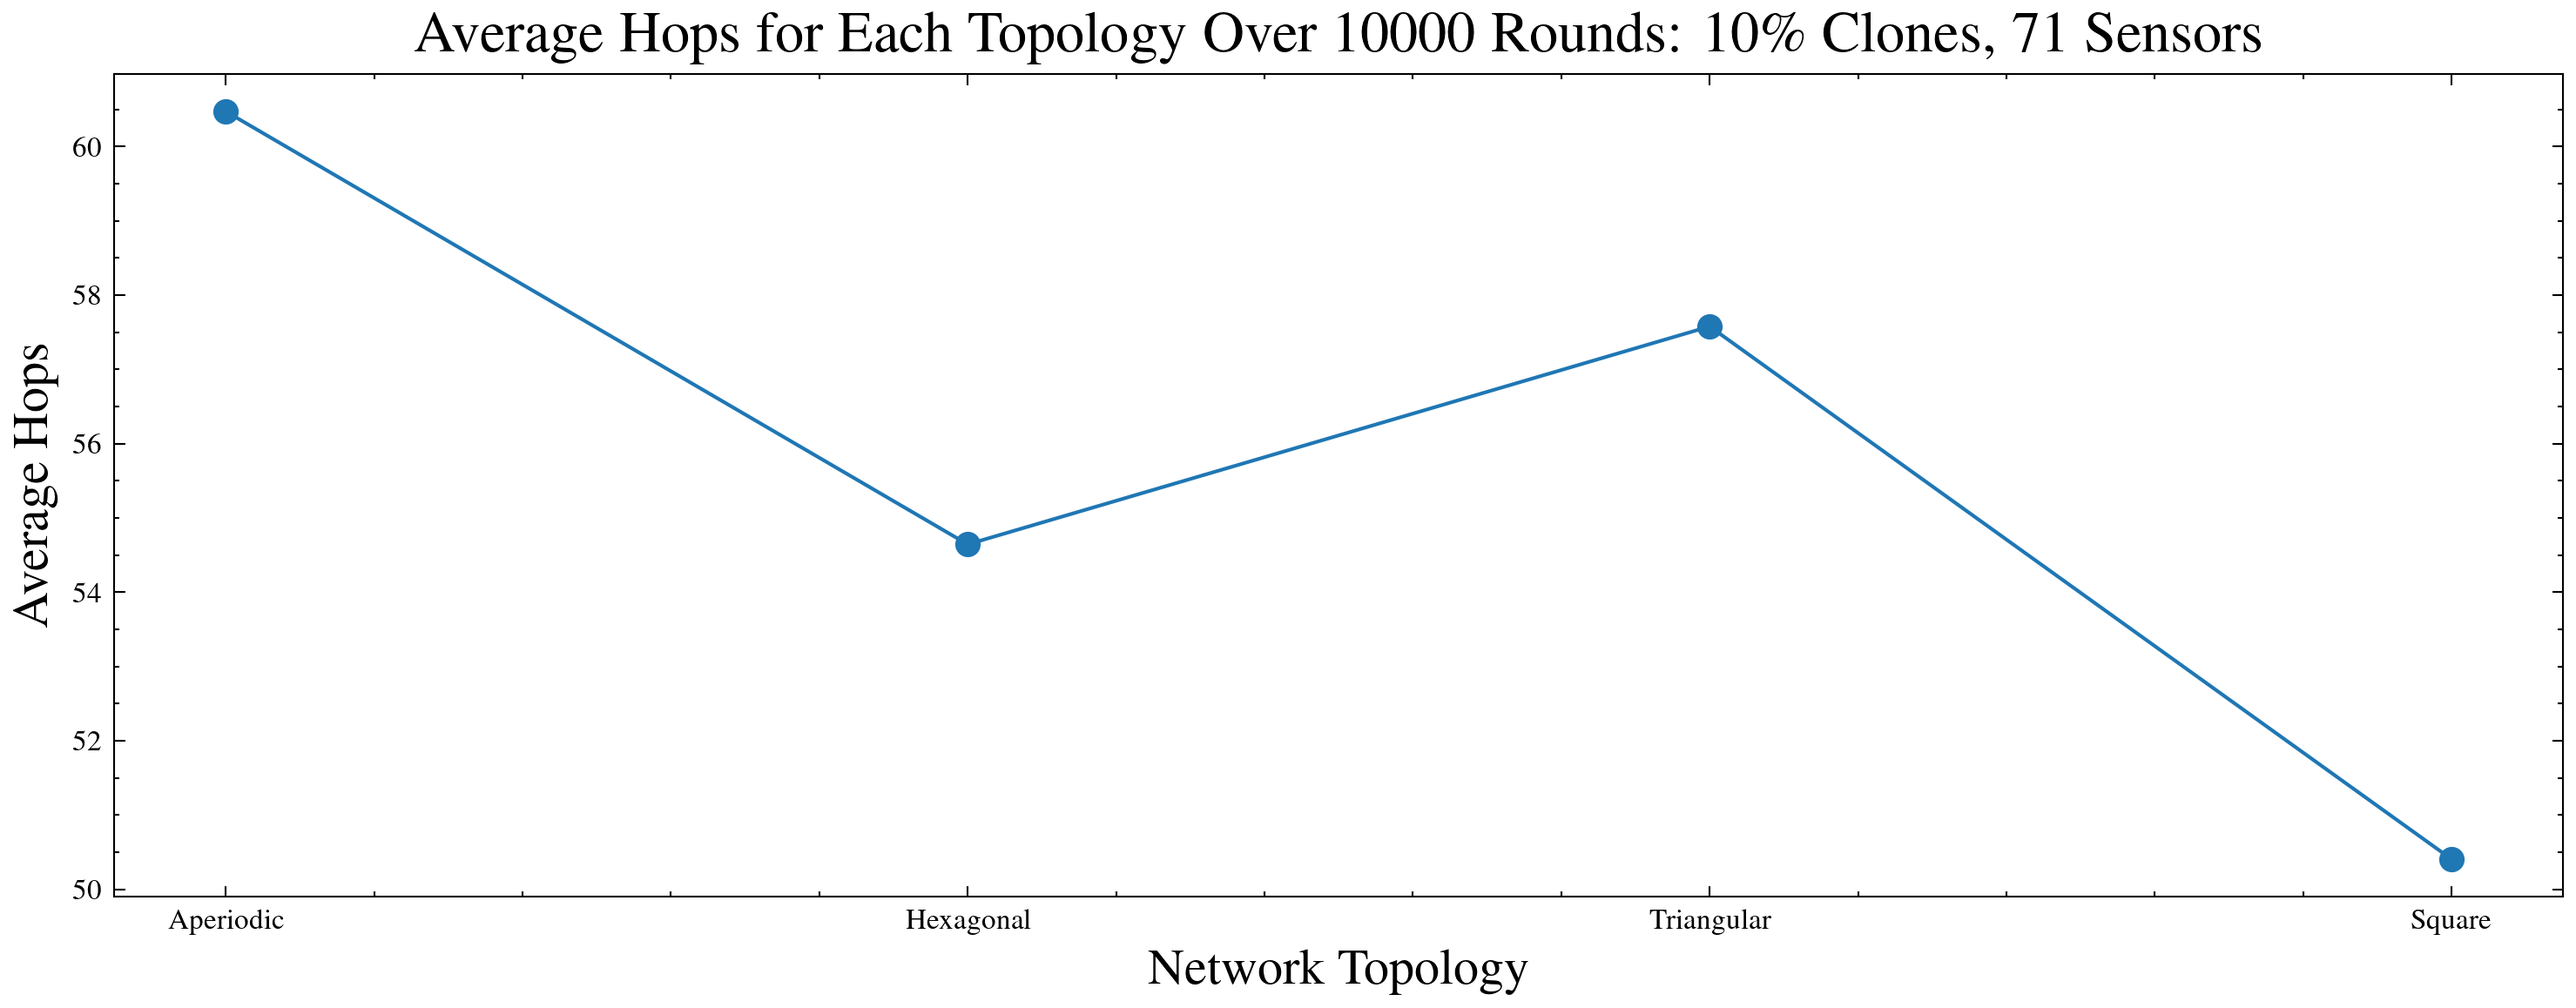
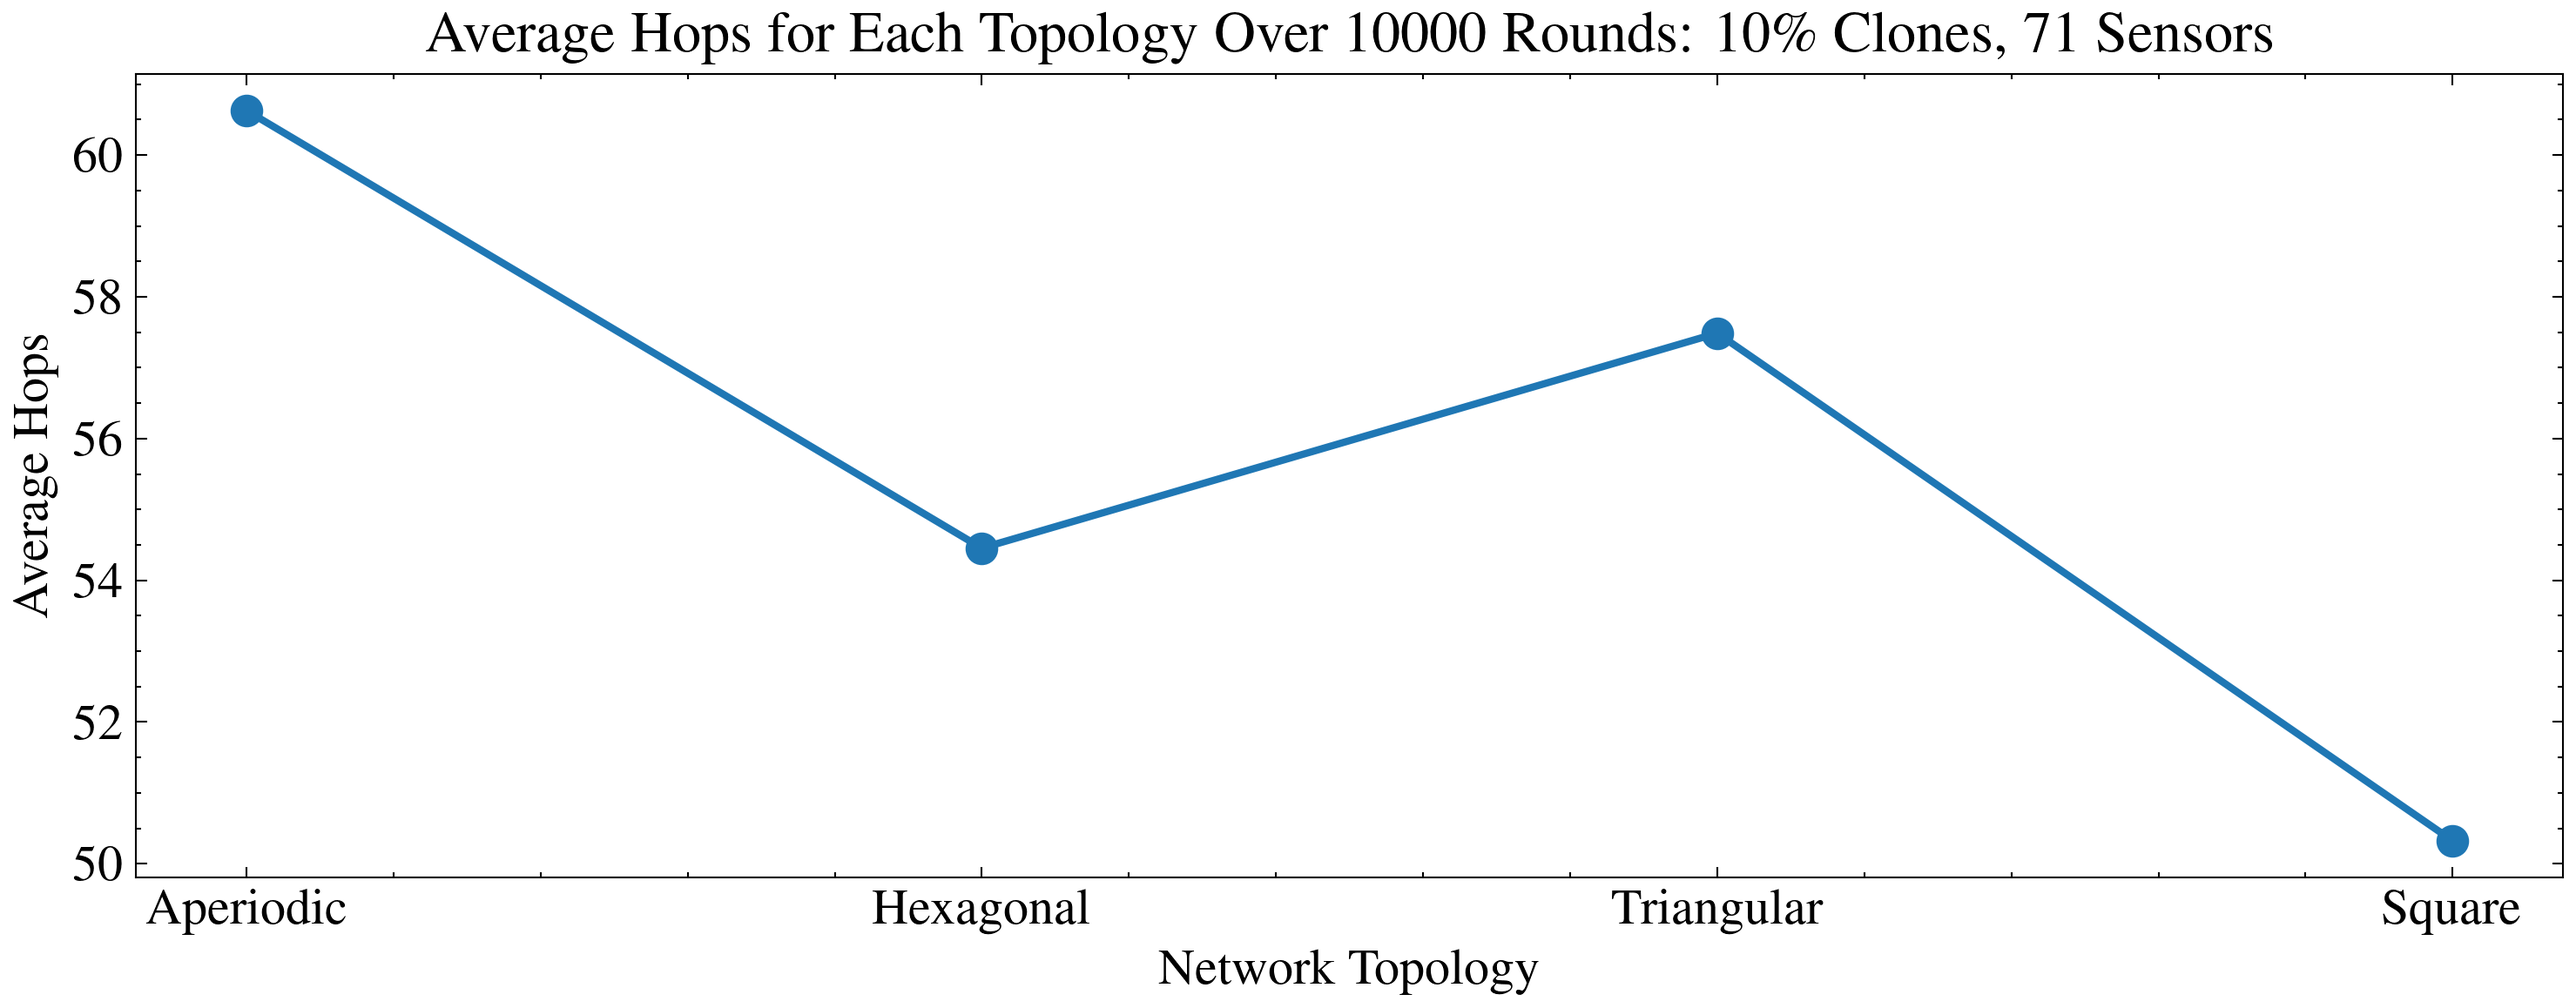
Updated clean figures

diff --git a/SECURITY/scrapmainfile.py b/SECURITY/scrapmainfile.py
@@ -1,0 +1,235 @@
+import numpy as np
+import matplotlib.pyplot as plt
+import scienceplots
+import random
+import pandas as pd
+from network_generation import generate_aperiodic_network, generate_hexagonal_network, generate_triangular_network, generate_square_network
+
+plt.style.use(['science', 'ieee', 'high-vis'])
+# Adjusting RC parameters
+plt.rcParams.update({
+    'figure.figsize': (6, 4),   # Size of the figure
+    'axes.titlesize': 18,       # Title size
+    'axes.labelsize': 16,       # X and Y label size
+    'xtick.labelsize': 14,      # X tick label size
+    'ytick.labelsize': 14,      # Y tick label size
+    'legend.fontsize': 12,      # Legend font size
+    'lines.markersize': 8,      # Marker size
+    'lines.linewidth': 2,       # Line width
+    'figure.dpi': 300,          # DPI for high-res images
+    'savefig.dpi': 600,         # DPI for saved figures
+})
+
+# Parameters
+SENSOR_RADIUS = 10
+COMMUNICATION_RANGE = SENSOR_RADIUS * 2
+CLONE_PERCENTAGE = 0.1
+DETECTION_THRESHOLD = 0.1  # Probability threshold for detecting a cloned node
+
+def generate_networks(sensor_radius, num_sensors):
+    aperiodic_network = generate_aperiodic_network(sensor_radius, num_sensors, 3)
+    hexagonal_network = generate_hexagonal_network(num_sensors, sensor_radius)
+    triangular_network = generate_triangular_network(num_sensors, sensor_radius)
+    square_network = generate_square_network(num_sensors, sensor_radius)
+    return {
+        'Aperiodic': aperiodic_network,
+        'Hexagonal': hexagonal_network,
+        'Triangular': triangular_network,
+        'Square': square_network
+    }
+
+def get_cloned_positions(network, seed, clone_percentage):
+    random.seed(seed)
+    num_clones = int(len(network) * clone_percentage)
+    clone_indices = np.random.choice(len(network), num_clones, replace=False)
+    return [tuple(network[idx]) for idx in clone_indices]
+
+def simulate_clone_attack(network, clone_positions, base_station_position):
+    detections = 0
+    paths = []
+    total_intrusion_effort = 0
+    total_hops = 0
+    detected_clones = set()
+    compromised_nodes = set(clone_positions)
+    active_clones = set(clone_positions)
+
+    while active_clones:
+        new_active_clones = set()
+        for clone_position in active_clones:
+            if tuple(clone_position) in detected_clones or has_reached_base_station(clone_position, base_station_position):
+                continue
+            
+            path = [clone_position]
+            visited_nodes = set()
+            while not has_reached_base_station(clone_position, base_station_position):
+                visited_nodes.add(tuple(clone_position))
+                next_position, effort_of_intrusion, pattern_found = smart_random_walk(network, clone_position, visited_nodes)
+                if next_position is None:
+                    break
+                if np.linalg.norm(np.array(next_position) - np.array(clone_position)) > COMMUNICATION_RANGE:
+                    break
+                clone_position = next_position
+                compromised_nodes.add(tuple(clone_position))
+                path.append(clone_position)
+                total_intrusion_effort += effort_of_intrusion
+                total_hops += 1
+                if random.random() < DETECTION_THRESHOLD:
+                    detected_clones.add(tuple(clone_position))
+                    detections += 1
+                    break
+                if has_reached_base_station(clone_position, base_station_position):
+                    break
+            paths.append(path)
+            if not has_reached_base_station(clone_position, base_station_position) and tuple(clone_position) not in detected_clones:
+                new_active_clones.add(tuple(clone_position))
+        
+        active_clones = new_active_clones
+    
+    return detections, paths, total_intrusion_effort, total_hops, detected_clones, len(compromised_nodes)
+
+def smart_random_walk(network, intruder_position, visited_nodes):
+    distances = np.linalg.norm(np.array(network) - np.array(intruder_position), axis=1)
+    sorted_indices = np.argsort(distances)
+    for idx in sorted_indices:
+        nearest_node = network[idx]
+        if tuple(nearest_node) not in visited_nodes and np.linalg.norm(nearest_node - intruder_position) <= COMMUNICATION_RANGE:
+            effort_of_intrusion = calculate_intrusion_effort(nearest_node, intruder_position, network)
+            pattern_found = detect_pattern(nearest_node, network)
+            return nearest_node, effort_of_intrusion, pattern_found
+    return None, 0, False
+
+def calculate_intrusion_effort(nearest_node, current_node, network):
+    distance = np.linalg.norm(np.array(nearest_node) - np.array(current_node))
+    unique_angles, unique_distances = get_unique_angles_distances(current_node, network)
+    complexity_factor = len(unique_angles) + len(unique_distances)
+    return distance / SENSOR_RADIUS * complexity_factor
+
+def get_unique_angles_distances(current_node, network):
+    current_node = np.array(current_node)
+    unique_angles = set()
+    unique_distances = set()
+    
+    for node in network:
+        node = np.array(node)
+        vector = node - current_node
+        distance = np.linalg.norm(vector)
+        unique_distances.add(distance)
+        
+        angle = np.degrees(np.arctan2(vector[1], vector[0]))
+        if angle < 0:
+            angle += 360
+        unique_angles.add(angle)
+    
+    return unique_angles, unique_distances
+
+def detect_pattern(current_node, network):
+    unique_angles, unique_distances = get_unique_angles_distances(current_node, network)
+    
+    max_angles = 6
+    max_distances = 2
+    
+    return len(unique_angles) <= max_angles and len(unique_distances) <= max_distances
+
+def has_reached_base_station(position, base_station_position):
+    return np.linalg.norm(np.array(position) - np.array(base_station_position)) <= SENSOR_RADIUS
+
+def plot_network_with_paths(network, paths, clone_positions, detected_clones, base_station_position, title, save_fig=False):
+    fig, ax = plt.subplots(figsize=(6, 4))  # Adjusted figure size
+    network = np.array(network)
+    
+    # Plot sensors and their ranges
+    for node in network:
+        sensor_circle = plt.Circle(node, SENSOR_RADIUS, color='blue', alpha=0.2)
+        ax.add_artist(sensor_circle)
+        plt.plot(node[0], node[1], 'bo', markersize=4, label='Uncompromised Nodes' if 'Uncompromised Nodes' not in plt.gca().get_legend_handles_labels()[1] else "")
+    
+    # Plot base station
+    plt.plot(base_station_position[0], base_station_position[1], 'go', markersize=10, label='Base Station')
+    
+    # Plot cloned nodes
+    for pos in clone_positions:
+        plt.plot(pos[0], pos[1], 'ro', markersize=6, label='Cloned Nodes' if 'Cloned Nodes' not in plt.gca().get_legend_handles_labels()[1] else "")
+    
+    # Plot detected cloned nodes
+    for pos in detected_clones:
+        plt.plot(pos[0], pos[1], 'yo', markersize=6, label='Detected Cloned Nodes' if 'Detected Cloned Nodes' not in plt.gca().get_legend_handles_labels()[1] else "")
+    
+    # Plot paths
+    for path in paths:
+        path = np.array(path)
+        plt.plot(path[:, 0], path[:, 1], 'r-', linewidth=1, alpha=0.5)
+
+    plt.title(title, fontsize=18, fontweight='bold')
+    plt.xlabel('Width', fontsize=16)
+    plt.ylabel('Height', fontsize=16)
+    plt.legend(fontsize=12, loc='center left', bbox_to_anchor=(1, 0.5))
+    plt.tight_layout()
+
+    if save_fig:
+        plt.savefig(f'figures/{title}.png', dpi=600)  # Higher DPI for saving
+    plt.show()
+
+def run_simulation(num_sensors=71, num_iterations=1, num_rounds=10000, save_fig=False):
+    sensor_radius = SENSOR_RADIUS
+    networks = generate_networks(sensor_radius, num_sensors)
+    results = {network_type: {'detections': 0, 'paths': [], 'total_intrusion_effort': 0, 'total_hops': 0, 'base_station_reached': 0, 'detected_clones': set(), 'compromised_nodes': 0} for network_type in networks.keys()}
+    
+    for round_idx in range(num_rounds):
+        print(f"Round {round_idx + 1}")
+        round_seed = round_idx  # Use round index as the seed for consistency
+        clone_positions_per_network = {network_type: get_cloned_positions(network, round_seed, CLONE_PERCENTAGE) for network_type, network in networks.items()}
+        
+        for network_type, network in networks.items():
+            clone_positions = clone_positions_per_network[network_type]
+            for iteration in range(num_iterations):
+                detections, paths, total_intrusion_effort, total_hops, detected_clones, compromised_nodes = simulate_clone_attack(network, clone_positions, tuple(np.mean(network, axis=0)))
+                results[network_type]['detections'] += detections
+                results[network_type]['paths'].extend(paths)
+                results[network_type]['total_intrusion_effort'] += total_intrusion_effort
+                results[network_type]['total_hops'] += total_hops
+                results[network_type]['detected_clones'].update(detected_clones)
+                results[network_type]['compromised_nodes'] += compromised_nodes
+                if has_reached_base_station(paths[-1][-1], tuple(np.mean(network, axis=0))):
+                    results[network_type]['base_station_reached'] += 1
+            if round_idx == 0 and iteration == 0:
+                plot_network_with_paths(network, results[network_type]['paths'], clone_positions, results[network_type]['detected_clones'], tuple(np.mean(network, axis=0)), f'{network_type} Network - {num_sensors} Sensors', save_fig)
+    
+    for network_type in results.keys():
+        print(f"{network_type} Network: {results[network_type]['detections']} detections, {results[network_type]['base_station_reached']} base stations reached out of {num_iterations * num_rounds} total rounds")
+        print(f"Average total intrusion effort: {results[network_type]['total_intrusion_effort'] / (num_iterations * num_rounds)}")
+        print(f"Average total hops: {results[network_type]['total_hops'] / (num_iterations * num_rounds)}")
+        print(f"Average total detected cloned nodes: {len(results[network_type]['detected_clones'])} / {num_iterations * num_rounds}")
+        print(f"Average total compromised nodes: {results[network_type]['compromised_nodes'] / (num_iterations * num_rounds)}")
+        print(f"Base station reached percentage: {(results[network_type]['base_station_reached'] / (num_iterations * num_rounds)) * 100}%")
+    
+    plot_metrics(results, num_rounds, num_sensors, save_fig)
+
+def plot_metrics(results, num_rounds, num_sensors, save_fig=False):
+    metrics = ['Average Intrusion Effort', 'Average Hops', 'Base Station Reached Percentage', 'Average Compromised Nodes', 'Average Detections']
+    data = []
+
+    for network_type, network_results in results.items():
+        data.append({'Network Type': network_type, 'Metric': 'Average Intrusion Effort', 'Value': network_results['total_intrusion_effort'] / num_rounds})
+        data.append({'Network Type': network_type, 'Metric': 'Average Hops', 'Value': network_results['total_hops'] / num_rounds})
+        data.append({'Network Type': network_type, 'Metric': 'Base Station Reached Percentage', 'Value': (network_results['base_station_reached'] / num_rounds) * 100})
+        data.append({'Network Type': network_type, 'Metric': 'Average Compromised Nodes', 'Value': network_results['compromised_nodes'] / num_rounds})
+        data.append({'Network Type': network_type, 'Metric': 'Average Detections', 'Value': network_results['detections'] / num_rounds})
+    
+    df = pd.DataFrame(data)
+
+    colors = ['tab:red', 'tab:blue', 'tab:green', 'tab:orange', 'tab:purple']
+    
+    for metric, color in zip(metrics, colors):
+        plt.figure(figsize=(10, 4))
+        subset = df[df['Metric'] == metric]
+        plt.plot(subset['Network Type'], subset['Value'], marker='o', linestyle='-', color=color, label=metric)
+        plt.title(f'{metric} for Each Topology Over {num_rounds} Rounds: {int(CLONE_PERCENTAGE*100)}\% Clones, {num_sensors} Sensors', fontsize=16, fontweight='bold')
+        plt.xlabel('Network Topology', fontsize=14)
+        plt.ylabel(metric, fontsize=14)
+        plt.tight_layout()
+        if save_fig:
+            plt.savefig(f'figures/{metric}_for_Each_Topology_Over_{num_rounds}_Rounds_Clone_Percentage_{int(CLONE_PERCENTAGE*100)}_Sensors_{num_sensors}.png', dpi=300)
+        plt.show()
+
+if __name__ == "__main__":
+    run_simulation(num_iterations=1, num_rounds=10000, save_fig=True)
